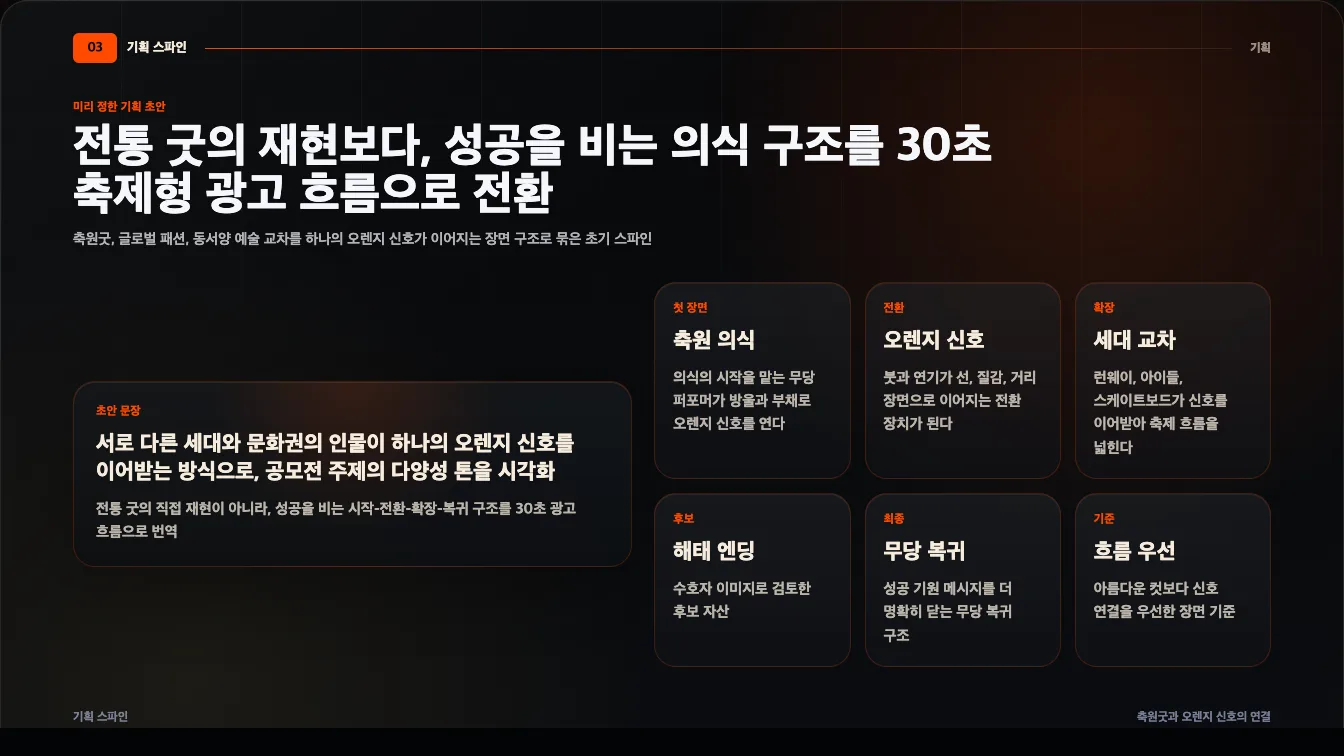
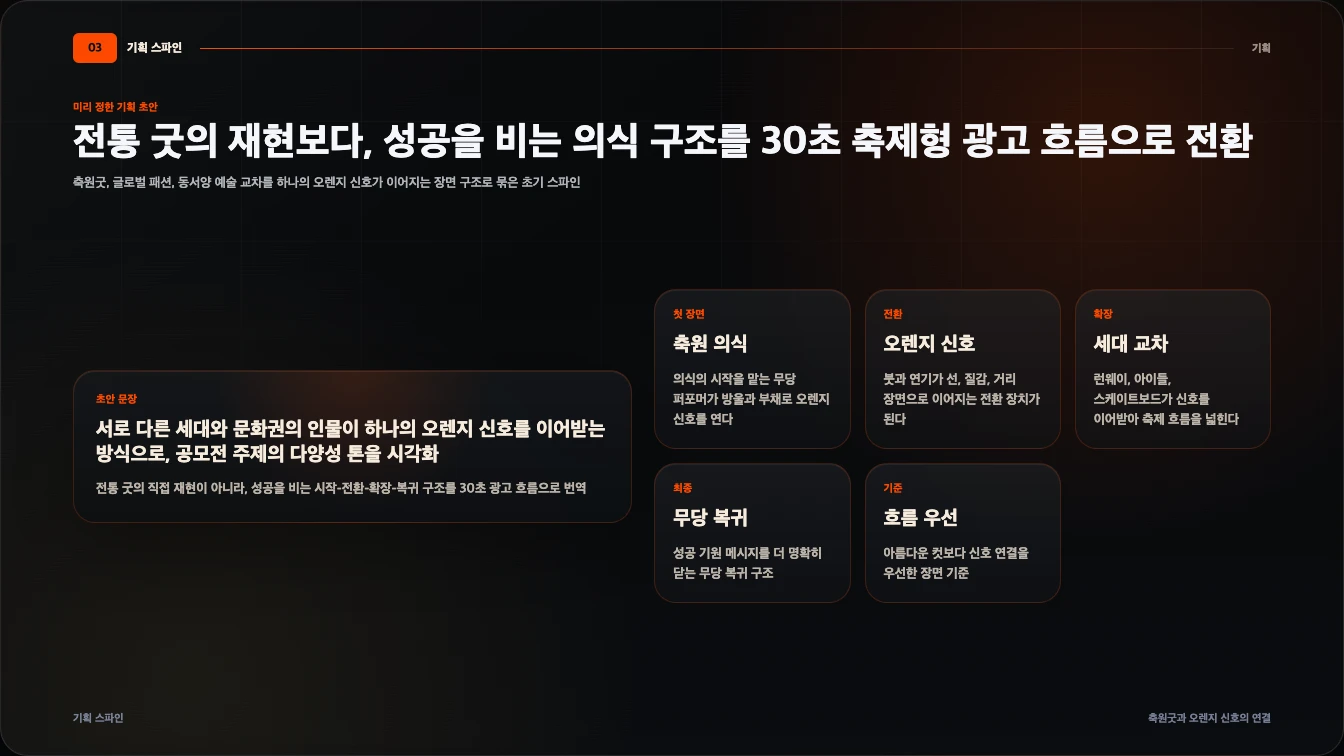
fix(portfolio): clean stale project copy and dates

diff --git a/public/musinsa/record/presentation/musinsa-mujinjang-case-study.html b/public/musinsa/record/presentation/musinsa-mujinjang-case-study.html
@@ -1040,7 +1040,6 @@
               <article class="proof-card compact"><span class="eyebrow">첫 장면</span><h3>축원 의식</h3><p>의식의 시작을 맡는 무당 퍼포머가 방울과 부채로 오렌지 신호를 연다</p></article>
               <article class="proof-card compact"><span class="eyebrow">전환</span><h3>오렌지 신호</h3><p>붓과 연기가 선, 질감, 거리 장면으로 이어지는 전환 장치가 된다</p></article>
               <article class="proof-card compact"><span class="eyebrow">확장</span><h3>세대 교차</h3><p>런웨이, 아이들, 스케이트보드가 신호를 이어받아 축제 흐름을 넓힌다</p></article>
-              <article class="proof-card compact"><span class="eyebrow">후보</span><h3>해태 엔딩</h3><p>수호자 이미지로 검토한 후보 자산</p></article>
               <article class="proof-card compact"><span class="eyebrow">최종</span><h3>무당 복귀</h3><p>성공 기원 메시지를 더 명확히 닫는 무당 복귀 구조</p></article>
               <article class="proof-card compact"><span class="eyebrow">기준</span><h3>흐름 우선</h3><p>아름다운 컷보다 신호 연결을 우선한 장면 기준</p></article>
             </div>
@@ -1059,7 +1058,7 @@
           <div class="slide-lead">
             <p class="kicker">최종 영상 흐름</p>
             <h2>30초 광고 흐름을 기준으로 한 장면 후보 압축 구조</h2>
-            <p class="claim">해태 엔딩과 군무 확장은 후보 자산으로 분리하고, 제출본은 무당 복귀와 키비주얼 엔딩으로 축원 구조를 닫았다.</p>
+            <p class="claim">후보 자산과 제출본을 분리하고, 제출본은 무당 복귀와 키비주얼 엔딩으로 축원 구조를 닫았다.</p>
           </div>
           <div class="matrix-grid">
             <div class="table-wrap">
@@ -1104,7 +1103,6 @@
             <article class="identity-tile"><figure class="media-frame"><img src="../identity/06_skateboard-boy_identity.webp" alt="스케이트보드 소년 이미지" /></figure><div><span class="eyebrow">최종 사용</span><h3>스케이트 소년</h3><p>후반부 속도와 거리 패션 감각을 연결</p></div></article>
             <article class="identity-tile"><figure class="media-frame"><img src="../identity/07_skateboard-girl_identity.webp" alt="스케이트보드 소녀 이미지" /></figure><div><span class="eyebrow">과정 자산</span><h3>스케이트 소녀</h3><p>후반 거리 장면을 검토한 과정 자산</p></div></article>
             <article class="identity-tile"><figure class="media-frame"><img src="../identity/03_graffiti-artist_fullbody.webp" alt="그래피티 아티스트 이미지" /></figure><div><span class="eyebrow">압축 사용</span><h3>그래피티</h3><p>오렌지 신호의 질감 확장</p></div></article>
-            <article class="identity-tile"><figure class="media-frame"><img src="../identity/08_haetae-mask-ending_candidate-no-backlight.webp" alt="해태 마스크 엔딩 후보 이미지" /></figure><div><span class="eyebrow">후보 제외</span><h3>해태 엔딩</h3><p>최종 엔딩이 아니라 수호자 이미지로 검토한 후보 자산</p></div></article>
           </div>
         </div>
         <footer class="slide-footer"><span>캐릭터 시스템</span><span>최종 사용과 후보 구분</span></footer>
@@ -1147,15 +1145,14 @@
             <article class="proof-card">
               <span class="eyebrow">변경 판단</span>
               <ul class="focus-list">
-                <li>1인 무당 중심에서 여러 인물의 오렌지 신호 릴레이로 확장</li>
+                <li>3인 팀의 협업으로 무당 퍼포머에서 여러 인물의 오렌지 신호 릴레이로 확장</li>
                 <li>무신사 오렌지, 검은 무대, 비어 있는 공간의 시각 기준 고정</li>
-                <li>해태 엔딩 후보 보존, 최종본의 무당 복귀 선택</li>
                 <li>실제 30초 제출본 화면 흐름 기준의 최종 설명 작성</li>
               </ul>
             </article>
             <div class="version-rows">
               <div class="version-row"><strong>초기</strong><span>무진장을 패션 축제와 인공지능 창작 이벤트로 읽는 공통 리서치</span></div>
-              <div class="version-row"><strong>1안</strong><span>무당 퍼포머의 방울, 부채, 오렌지 신호가 생긴 1인 중심 기획</span></div>
+              <div class="version-row"><strong>1안</strong><span>무당 퍼포머의 방울과 부채에서 시작된 오렌지 신호를 확장한 3인 팀 기획</span></div>
               <div class="version-row"><strong>2안</strong><span>붓, 그래피티, 런웨이, 아이들, 스케이트보드로 이어지는 릴레이 구조</span></div>
               <div class="version-row"><strong>정리</strong><span>캐릭터, 행동, 스토리보드, 클립을 나누어 보는 검토 구조</span></div>
               <div class="version-row"><strong>최종</strong><span>30초 제출본 기준의 기획 의도, 변경점, 역할, 산출물 재기록</span></div>

diff --git a/src/lib/portfolio-deck/projects/aheya.ts b/src/lib/portfolio-deck/projects/aheya.ts
@@ -49,11 +49,11 @@ export const aheyaSlides = [
     table: {
       headers: ["시점", "변화", "포트폴리오 의미"],
       rows: [
-        ["2025-12~01", "Smart contract / Solana deploy까지 고려한 큰 온체인 기획", ""],
-        ["2026-02", "소액 후원 + Good/Improve UX로 첫 행동을 좁힘", ""],
-        ["2026-02~03", "mainnet-compatible support flow design + Privy wallet entry 정리", ""],
-        ["2026-03~04", "Public idea와 wallet-signed receipt로 설명 축소", ""],
-        ["2026-04", "Direct-send verify와 feedback record를 분리", ""],
+        ["2026.02", "소액 후원 + Good/Improve UX로 첫 행동을 좁힘", ""],
+        ["2026.02~03", "mainnet-compatible support flow design + Privy wallet entry 정리", ""],
+        ["2026.03~04", "Public idea와 wallet-signed receipt로 설명 축소", ""],
+        ["2026.04", "Direct-send verify와 feedback record를 분리", ""],
+        ["4.12", "단순 링크 포스팅: https://aheyabaraya.xyz/", "마지막 공개 링크"],
       ],
     },
   },
@@ -638,7 +638,7 @@ export const aheyaSlides = [
     ],
     gallery: [
       {
-        alt: "AHEYA public X post screenshot from 2026-03-17",
+        alt: "AHEYA public X post screenshot from 2026.03",
         label: "Representative high-signal post",
         href: "https://x.com/minnns_aheya/status/2033738008516825288",
         embedUrl: "https://x.com/minnns_aheya/status/2033738008516825288",
@@ -646,7 +646,7 @@ export const aheyaSlides = [
         caption: "Public attention cue, not traction proof",
       },
       {
-        alt: "AHEYA public X post screenshot from 2026-03-27",
+        alt: "AHEYA public X post screenshot from 2026.03",
         label: "Cleaner response copy",
         href: "https://x.com/minnns_aheya/status/2037465808524460467",
         embedUrl: "https://x.com/minnns_aheya/status/2037465808524460467",
@@ -654,7 +654,7 @@ export const aheyaSlides = [
         caption: "donation / feedback language",
       },
       {
-        alt: "AHEYA public X post screenshot from 2026-04-10",
+        alt: "AHEYA public X post screenshot from 2026.04",
         label: "Builder start copy",
         href: "https://x.com/minnns_aheya/status/2042684370486727146",
         embedUrl: "https://x.com/minnns_aheya/status/2042684370486727146",
@@ -707,7 +707,7 @@ export const aheyaSlides = [
     ],
     gallery: [
       {
-        alt: "AHEYA public X embed from 2026-04-01",
+        alt: "AHEYA public X embed from 2026.04",
         label: "Live demo CTA",
         href: "https://x.com/minnns_aheya/status/2039382534354870308",
         embedUrl: "https://x.com/minnns_aheya/status/2039382534354870308",
@@ -716,14 +716,14 @@ export const aheyaSlides = [
       },
       {
         src: "/aheya/ppt/x-cards/aheya-reply-2026-03-19.png",
-        alt: "AHEYA public reply screenshot from 2026-03-19",
+        alt: "AHEYA public reply screenshot from 2026.03",
         label: "Relevant segment reply",
         href: "https://x.com/minnns_aheya/status/2034680247053164585",
         caption: "AI-native creator segment",
       },
       {
         src: "/aheya/ppt/x-cards/aheya-reply-2026-04-02.png",
-        alt: "AHEYA public reply screenshot from 2026-04-02",
+        alt: "AHEYA public reply screenshot from 2026.04",
         label: "High-fit builder hypothesis reply",
         href: "https://x.com/minnns_aheya/status/2039543700045656099",
         caption: "founder-first response",

diff --git a/src/lib/portfolio-deck/projects/adsb.ts b/src/lib/portfolio-deck/projects/adsb.ts
@@ -175,7 +175,6 @@ export const adsbSlides = [
       headers: ["Card", "Content", "Decision use"],
       rows: [
         ["Draft Label", "green-screen / generated variants는 final output이 아니라 prompt-movement test로 표시", "not final brand output"],
-        ["Frame Clarity", "첫 프레임에서 dog / ball / object가 바로 읽히는지 확인", "first-frame readability"],
         ["Motion Readiness", "Kling으로 움직임을 붙였을 때 무드가 유지되는지 확인", "image-to-video readiness"],
         ["Selection Criteria", "과한 collage, tone diffusion, weak impact를 제거하고 남길 컷을 선택", "brand-fit selection"],
       ],

diff --git a/src/lib/portfolio-hub/content.ts b/src/lib/portfolio-hub/content.ts
@@ -258,7 +258,7 @@ export const projects: PortfolioProject[] = [
     title: "AHEYA First-Signal Service Prototype",
     shortTitle: "AHEYA",
     role: "AI Creative, First-signal Flow, Service Prototype",
-    period: "2025.09-2026.04",
+    period: "2026.02-2026.04",
     route: "/deck/aheya",
     accent: "aqua",
     headline: "AI builder의 공개 아이디어를 후원·피드백·공유·저장으로 이어지는 초기 반응 흐름으로 구조화한 프로젝트",
